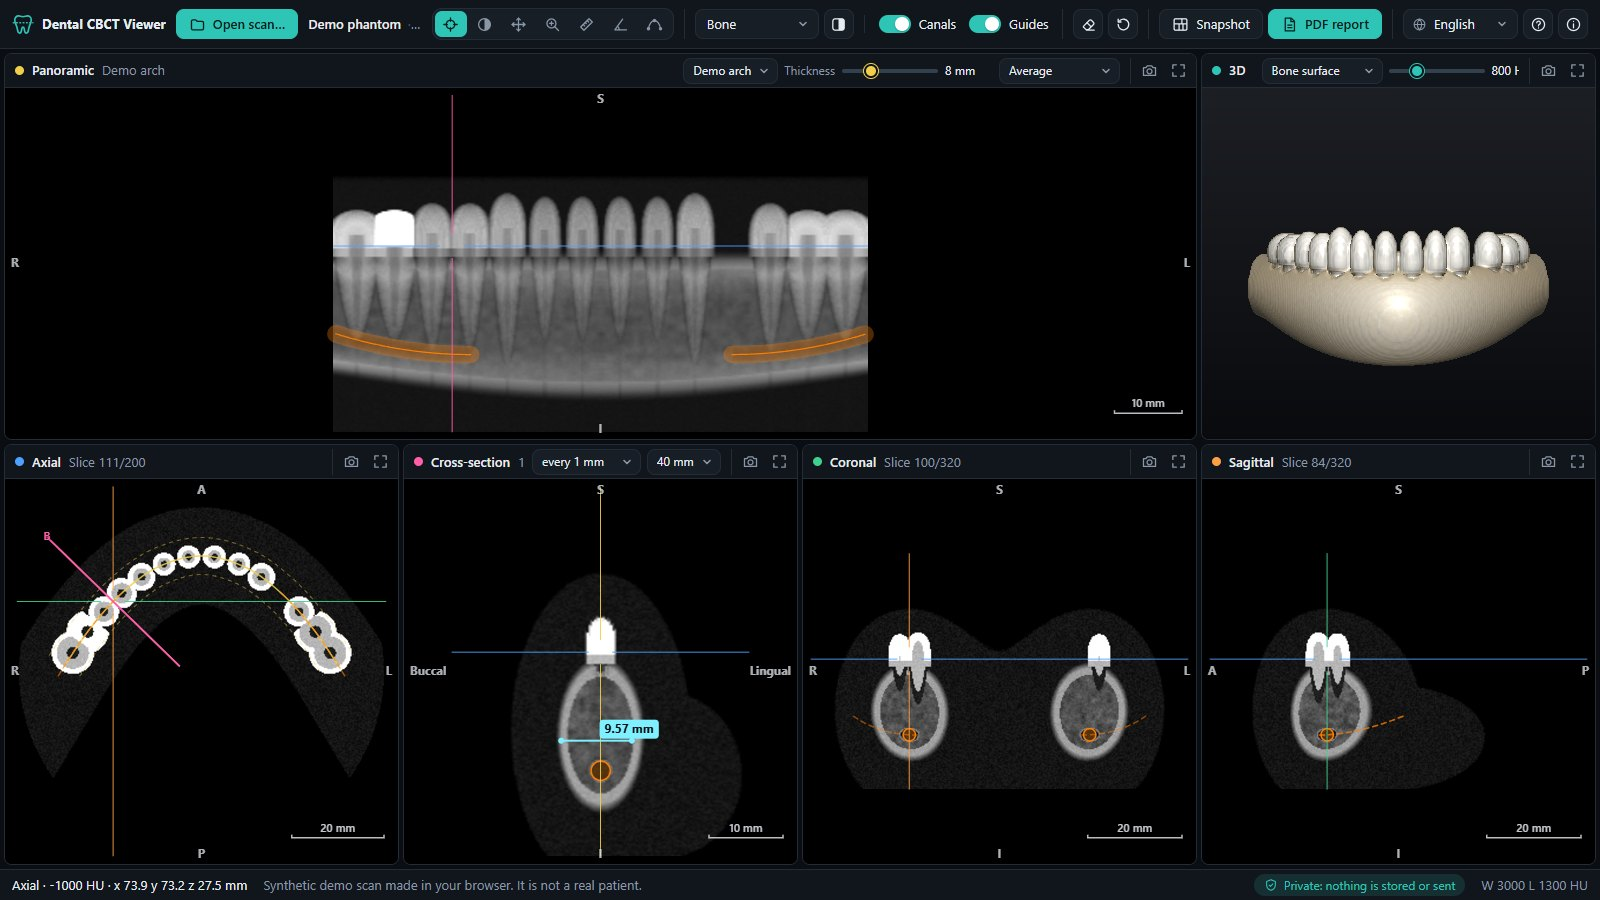
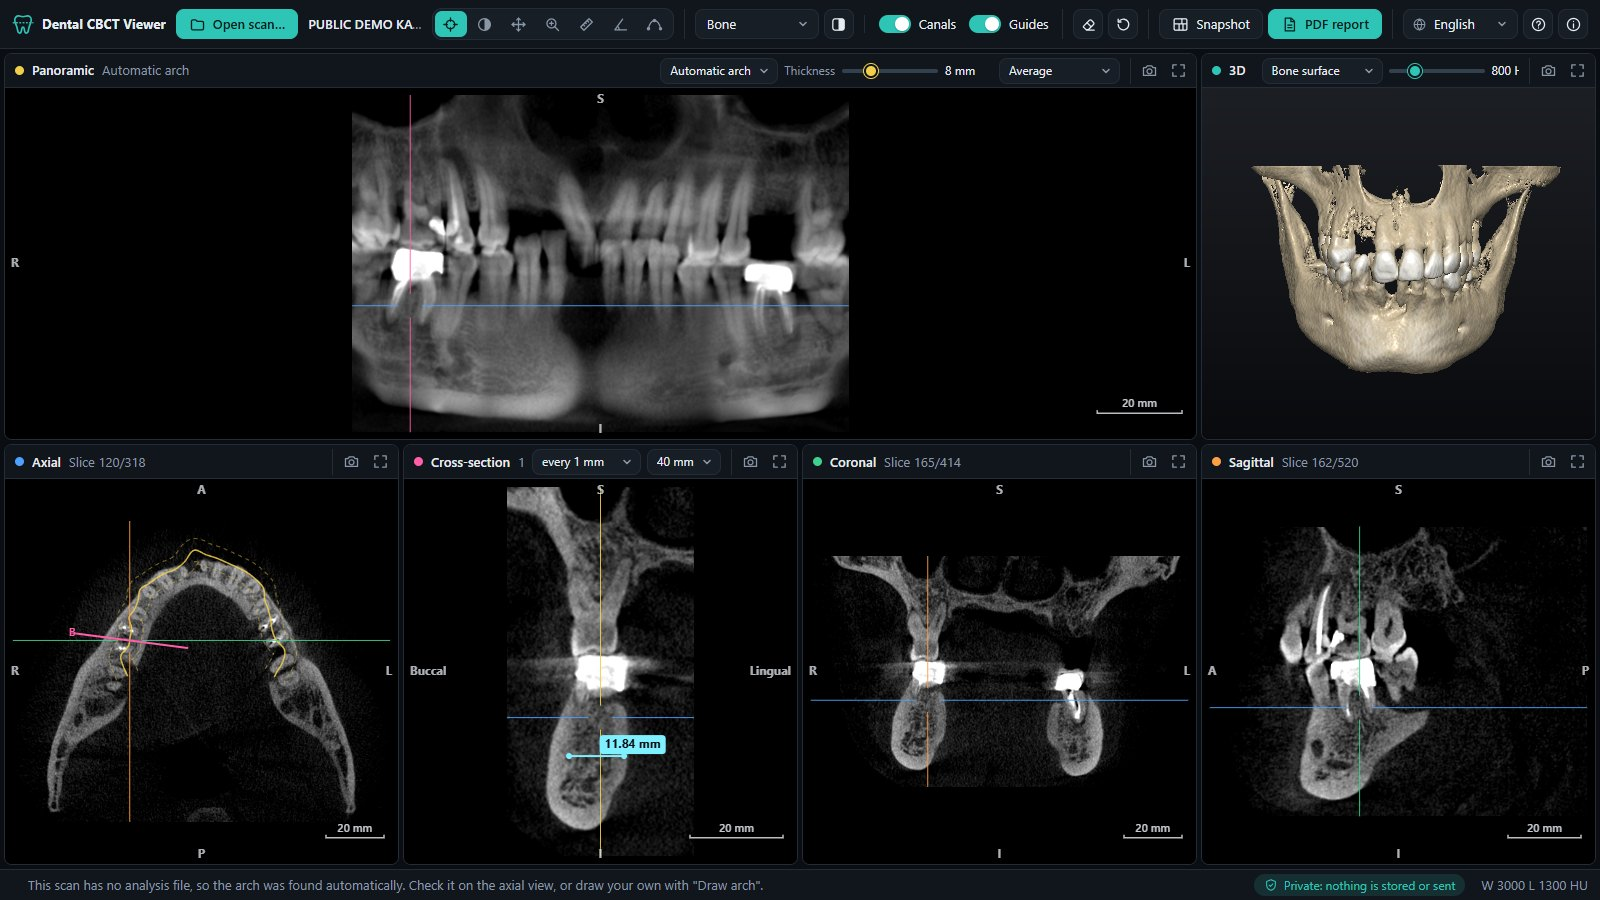
feat: offer a real public demo scan next to the synthetic jaw
The welcome screen keeps the instant synthetic demo and adds a download
of an anonymized KaVo CBCT (Feng et al., Science Data Bank, CC BY 4.0),
cropped to the jaws and de-identified, published as a release asset so
the page still makes no network connections. README images now come
from that scan, with credits in the README and the About page.

diff --git a/src/i18n.js b/src/i18n.js
@@ -77,7 +77,9 @@ export const STRINGS = {
     'welcome.title': 'Open a CBCT scan',
     'welcome.body': 'Drag the scan folder onto this window: the patient\'s folder, or the <b>Data</b> folder that holds the <b>.dcm</b> files.',
     'welcome.choose': 'Choose folder…',
-    'welcome.demo': 'Try the demo scan',
+    'welcome.demo': 'Synthetic demo jaw',
+    'welcome.real': 'Download a real public scan ({size})',
+    'welcome.real.note': 'An anonymized KaVo scan shared by Feng et al. on Science Data Bank under CC BY 4.0. Unzip it, then drag the folder here.',
     'welcome.hint': 'The scan is read on this computer only and is never sent anywhere, even if your browser\'s dialog says "Upload".',
     'welcome.privacy': 'How your privacy is protected',
     'drop': 'Drop the scan folder to open it',
@@ -213,6 +215,7 @@ export const STRINGS = {
     'about.source': 'Source code on GitHub',
     'about.issues': 'Report a problem or suggest an idea',
     'about.license': 'MIT License',
+    'about.credits': 'Real demo scan: Feng L, Li Z, Gu Q, Wang Y, Yu X, Science Data Bank (CC BY 4.0), cropped and de-identified.',
     'about.copyright': '© 2026 Kitsos Orfanopoulos. Released under the MIT License.',
     'terms.title': 'Terms of use',
     'terms.updated': 'Last updated: 17 October 2026',
@@ -306,7 +309,9 @@ export const STRINGS = {
     'welcome.title': 'Ανοίξτε μια εξέταση CBCT',
     'welcome.body': 'Σύρετε εδώ τον φάκελο της εξέτασης: τον φάκελο του ασθενή ή τον φάκελο <b>Data</b> με τα αρχεία <b>.dcm</b>.',
     'welcome.choose': 'Επιλογή φακέλου…',
-    'welcome.demo': 'Δοκιμή με εξέταση επίδειξης',
+    'welcome.demo': 'Συνθετική γνάθος επίδειξης',
+    'welcome.real': 'Λήψη πραγματικής δημόσιας εξέτασης ({size})',
+    'welcome.real.note': 'Ανωνυμοποιημένη εξέταση KaVo που δημοσίευσαν οι Feng et al. στο Science Data Bank με άδεια CC BY 4.0. Αποσυμπιέστε την και σύρετε τον φάκελο εδώ.',
     'welcome.hint': 'Η εξέταση διαβάζεται μόνο σε αυτόν τον υπολογιστή και δεν αποστέλλεται πουθενά, ακόμη κι αν ο browser γράφει «Μεταφόρτωση».',
     'welcome.privacy': 'Πώς προστατεύεται το απόρρητό σας',
     'drop': 'Αφήστε τον φάκελο για να ανοίξει',
@@ -442,6 +447,7 @@ export const STRINGS = {
     'about.source': 'Ο πηγαίος κώδικας στο GitHub',
     'about.issues': 'Αναφέρετε ένα πρόβλημα ή προτείνετε μια ιδέα',
     'about.license': 'Άδεια MIT',
+    'about.credits': 'Πραγματική εξέταση επίδειξης: Feng L, Li Z, Gu Q, Wang Y, Yu X, Science Data Bank (CC BY 4.0), περικομμένη και ανωνυμοποιημένη.',
     'about.copyright': '© 2026 Kitsos Orfanopoulos. Διατίθεται με την άδεια MIT.',
     'terms.title': 'Όροι χρήσης',
     'terms.updated': 'Τελευταία ενημέρωση: 17 Οκτωβρίου 2026',
@@ -535,7 +541,9 @@ export const STRINGS = {
     'welcome.title': 'Ouvrir un examen CBCT',
     'welcome.body': 'Faites glisser ici le dossier de l’examen : le dossier du patient ou le dossier <b>Data</b> qui contient les fichiers <b>.dcm</b>.',
     'welcome.choose': 'Choisir un dossier…',
-    'welcome.demo': 'Essayer l’examen de démonstration',
+    'welcome.demo': 'Mâchoire synthétique de démonstration',
+    'welcome.real': 'Télécharger un examen public réel ({size})',
+    'welcome.real.note': 'Examen KaVo anonymisé publié par Feng et al. sur Science Data Bank sous licence CC BY 4.0. Décompressez-le, puis faites glisser le dossier ici.',
     'welcome.hint': 'L’examen est lu uniquement sur cet ordinateur et n’est envoyé nulle part, même si la fenêtre du navigateur parle d’« importer ».',
     'welcome.privacy': 'Comment votre confidentialité est protégée',
     'drop': 'Déposez le dossier pour l’ouvrir',
@@ -671,6 +679,7 @@ export const STRINGS = {
     'about.source': 'Code source sur GitHub',
     'about.issues': 'Signaler un problème ou proposer une idée',
     'about.license': 'Licence MIT',
+    'about.credits': 'Examen de démonstration réel : Feng L, Li Z, Gu Q, Wang Y, Yu X, Science Data Bank (CC BY 4.0), recadré et anonymisé.',
     'about.copyright': '© 2026 Kitsos Orfanopoulos. Distribué sous licence MIT.',
     'terms.title': 'Conditions d’utilisation',
     'terms.updated': 'Dernière mise à jour : 17 octobre 2026',

diff --git a/index.html b/index.html
@@ -37,6 +37,7 @@
     <symbol id="i-layout" viewBox="0 0 24 24"><g fill="none" stroke="currentColor" stroke-width="1.8" stroke-linejoin="round"><rect x="3" y="4" width="18" height="16" rx="2"/><path d="M3 11h18M10 11v9M15.5 11v9M14 4v7"/></g></symbol>
     <symbol id="i-pdf" viewBox="0 0 24 24"><g fill="none" stroke="currentColor" stroke-width="1.8" stroke-linejoin="round"><path d="M6 3h8.5L19 7.5V21H6z"/><path d="M14 3v5h5M9 13h7M9 16.5h7"/></g></symbol>
     <symbol id="i-eraser" viewBox="0 0 24 24"><g fill="none" stroke="currentColor" stroke-width="1.8" stroke-linecap="round" stroke-linejoin="round"><path d="M9 20h11M5.1 14.3l8.2-8.2a2 2 0 0 1 2.8 0l3 3a2 2 0 0 1 0 2.8L12.4 18.6a2 2 0 0 1-1.4.6H9.3a2 2 0 0 1-1.4-.6l-2.8-2.8a1 1 0 0 1 0-1.5z"/><path d="M10 9.5l5 5"/></g></symbol>
+    <symbol id="i-download" viewBox="0 0 24 24"><g fill="none" stroke="currentColor" stroke-width="1.9" stroke-linecap="round" stroke-linejoin="round"><path d="M12 4v11M7.5 10.5L12 15l4.5-4.5M5 19.5h14"/></g></symbol>
     <symbol id="i-reset" viewBox="0 0 24 24"><g fill="none" stroke="currentColor" stroke-width="1.9" stroke-linecap="round" stroke-linejoin="round"><path d="M4.5 12a7.5 7.5 0 1 0 2.3-5.4"/><path d="M4.5 4.5v4h4"/></g></symbol>
   </svg>
 
@@ -173,7 +174,11 @@
       <p data-i18n-html="welcome.body"></p>
       <div class="actions">
         <button id="welcomeOpen" class="primary big with-icon"><svg><use href="#i-folder"/></svg><span data-i18n="welcome.choose">Choose folder…</span></button>
-        <button id="welcomeDemo" class="big ghost" data-i18n="welcome.demo">Try the demo scan</button>
+        <button id="welcomeDemo" class="big ghost" data-i18n="welcome.demo">Synthetic demo jaw</button>
+      </div>
+      <div class="real-demo">
+        <a id="welcomeReal" class="with-icon" target="_blank" rel="noopener noreferrer"><svg><use href="#i-download"/></svg><span id="welcomeRealLabel"></span></a>
+        <p data-i18n="welcome.real.note"></p>
       </div>
       <p class="hint" data-i18n="welcome.hint"></p>
       <button id="welcomePrivacy" class="link with-icon"><svg><use href="#i-shield"/></svg><span data-i18n="welcome.privacy"></span></button>
@@ -267,6 +272,7 @@
             <a id="aboutLicense" target="_blank" rel="noopener noreferrer" data-i18n="about.license"></a>
             <a id="offlineLink" download="dental-cbct-viewer.html" hidden data-i18n="help.offline"></a>
           </div>
+          <p class="muted small" data-i18n="about.credits"></p>
           <p class="muted small" data-i18n="about.copyright"></p>
         </section>
 

diff --git a/src/app.js b/src/app.js
@@ -13,6 +13,8 @@ const clamp = (v, lo, hi) => Math.max(lo, Math.min(hi, v));
 
 const REPO_URL = 'https://github.com/kitsorfan/dental-cbct-viewer';
 const CREATOR = 'Kitsos Orfanopoulos';
+// Real anonymized scan (CC BY 4.0), offered as a download so the page itself never connects anywhere.
+const DEMO_SCAN = { url: `${REPO_URL}/releases/download/demo-data/dental-cbct-demo-kavo.zip`, size: '91 MB' };
 const CROSS_STEPS = [0.5, 1, 2, 5]; // mm
 const LEGACY_STORAGE_KEYS = ['dental-cbct-viewer.lang']; // written by v1.0.0, removed on start
 const KINDS_2D = ['pano', 'axial', 'cross', 'coronal', 'sagittal'];
@@ -1110,6 +1112,7 @@ function bindUi() {
   $('#openBtn').addEventListener('click', pick);
   $('#welcomeOpen').addEventListener('click', pick);
   $('#welcomeDemo').addEventListener('click', openDemo);
+  $('#welcomeReal').href = DEMO_SCAN.url;
   input.addEventListener('change', () => {
     const entries = entriesFromInput(input.files);
     input.value = '';
@@ -1223,6 +1226,7 @@ function routeHash() {
 }
 
 function renderAbout() {
+  $('#welcomeRealLabel').textContent = t('welcome.real', { size: DEMO_SCAN.size });
   $('#aboutVersion').textContent = t('about.version', { v: document.documentElement.dataset.version || 'dev' });
   $('#aboutCreator').textContent = t('about.creator', { name: CREATOR });
 }

diff --git a/src/style.css b/src/style.css
@@ -329,6 +329,11 @@ body[data-tool="wl"] .canvas-wrap canvas { cursor: ns-resize; }
 .welcome .actions { display: flex; flex-wrap: wrap; justify-content: center; gap: 10px; }
 .welcome .hint { margin: 18px 0 6px; font-size: 12px; }
 .welcome .link svg { width: 15px; height: 15px; }
+.welcome .real-demo { margin: 16px auto 0; padding: 12px 14px; max-width: 440px; border: 1px solid var(--line); border-radius: 10px; background: var(--panel-2); }
+.welcome .real-demo a { display: inline-flex; align-items: center; gap: 7px; color: var(--accent); font-weight: 600; text-decoration: none; }
+.welcome .real-demo a:hover { text-decoration: underline; }
+.welcome .real-demo svg { width: 17px; height: 17px; }
+.welcome .real-demo p { margin: 6px 0 0; font-size: 12px; }
 .welcome .error { margin: 12px 0 0; color: var(--danger); }
 
 .drop-hint {

diff --git a/README.md b/README.md
@@ -5,13 +5,15 @@
 
 A dental CBCT viewer that runs entirely in the browser. Open a scan folder and get a panoramic reconstruction, cross-sections along the arch, axial/coronal/sagittal slices, a 3D rendering, measurements and a one-click PDF report with serial cross-sections every millimetre. Nothing to install, nothing stored, and the scan never leaves your computer.
 
-**[Open the viewer](https://kitsorfan.github.io/dental-cbct-viewer/)** · **[Try the demo scan](https://kitsorfan.github.io/dental-cbct-viewer/?demo)** · **[Download for offline use](https://github.com/kitsorfan/dental-cbct-viewer/releases/latest/download/dental-cbct-viewer.html)** · **[Privacy, live](https://kitsorfan.github.io/dental-cbct-viewer/#privacy)**
+**[Open the viewer](https://kitsorfan.github.io/dental-cbct-viewer/)** · **[Download for offline use](https://github.com/kitsorfan/dental-cbct-viewer/releases/latest/download/dental-cbct-viewer.html)** · **[Privacy, live](https://kitsorfan.github.io/dental-cbct-viewer/#privacy)**
+
+Try it with **[the synthetic demo jaw](https://kitsorfan.github.io/dental-cbct-viewer/?demo)** (opens instantly) or **[a real public scan](https://github.com/kitsorfan/dental-cbct-viewer/releases/download/demo-data/dental-cbct-demo-kavo.zip)** (91 MB; unzip it and drag the folder in).
 
 English · Ελληνικά · Français
 
 ![The viewer showing the synthetic demo scan](docs/screenshot.jpg)
 
-<sub>All images in this README come from the built-in synthetic demo scan, not from a patient.</sub>
+<sub>Images: anonymized public CBCT (case K01) by Feng L, Li Z, Gu Q, Wang Y and Yu X, [Science Data Bank](https://doi.org/10.57760/sciencedb.26465), CC BY 4.0, cropped and de-identified for this demo. The arch was found automatically.</sub>
 
 ## Using it
 
@@ -100,6 +102,10 @@ Pushing to `main` runs the tests and deploys the built page to GitHub Pages. Pus
 This software is for reviewing scans only. It is not a certified medical device and must not be used as the sole basis for diagnosis or treatment planning; use certified software for clinical decisions. The full [terms of use](https://kitsorfan.github.io/dental-cbct-viewer/#terms) are in the app.
 
 This project is independent and not affiliated with or endorsed by Carestream Dental. Carestream and CS 3D Imaging are trademarks of their respective owners and are named only to describe file compatibility.
+
+## Credits
+
+The real demo scan comes from *Adults' dental cone beam computed tomography images dataset for detecting and classifying missing teeth* by Feng L, Li Z, Gu Q, Wang Y and Yu X ([Science Data Bank](https://doi.org/10.57760/sciencedb.26465); [Scientific Data, 2026](https://doi.org/10.1038/s41597-026-07156-9)), licensed under [CC BY 4.0](https://creativecommons.org/licenses/by/4.0/). The authors report ethics approval and patient consent for sharing. For the demo it was cropped to the jaws, its dates and device identifiers were removed and it was given new DICOM UIDs; pixel values are unchanged.
 
 ## License
 
